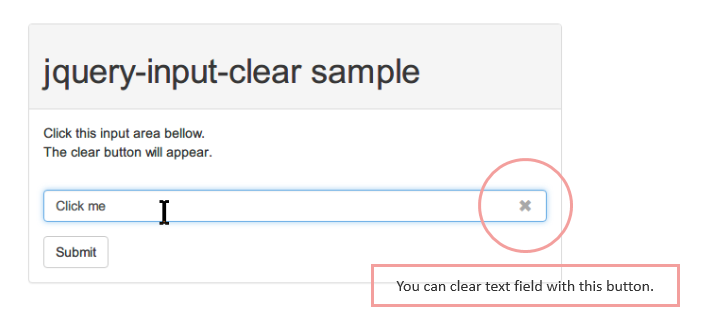
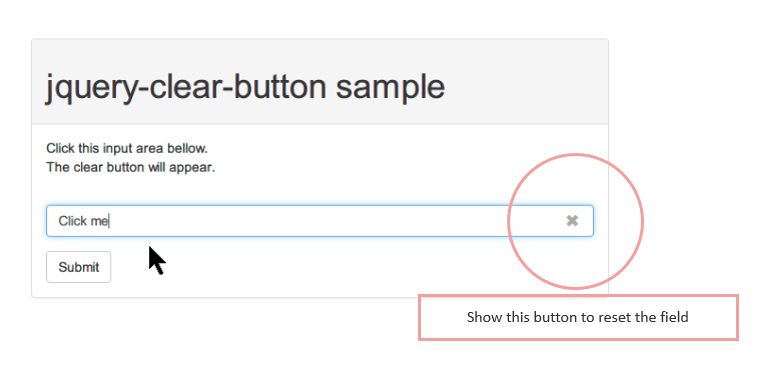
[master] fix broken link

diff --git a/example/index.html b/example/index.html
@@ -20,7 +20,7 @@
 <body>
     <div class="panel panel-default">
         <div class="panel-heading">
-            <h1> jquery-input-clear sample</h1>
+            <h1> jquery-clear-button sample</h1>
         </div>
         <div class="panel-body">
             Click this input area bellow.

diff --git a/README.md b/README.md
@@ -1,4 +1,4 @@
-# jquery-input-clear
+# jquery-clear-button
 
 ## Adds a reset button on \<input type="text">.
 
